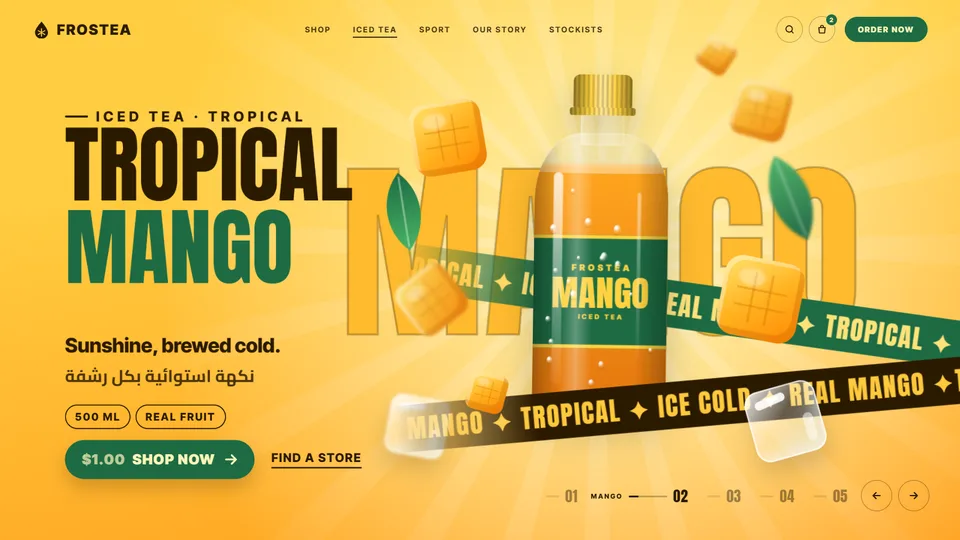
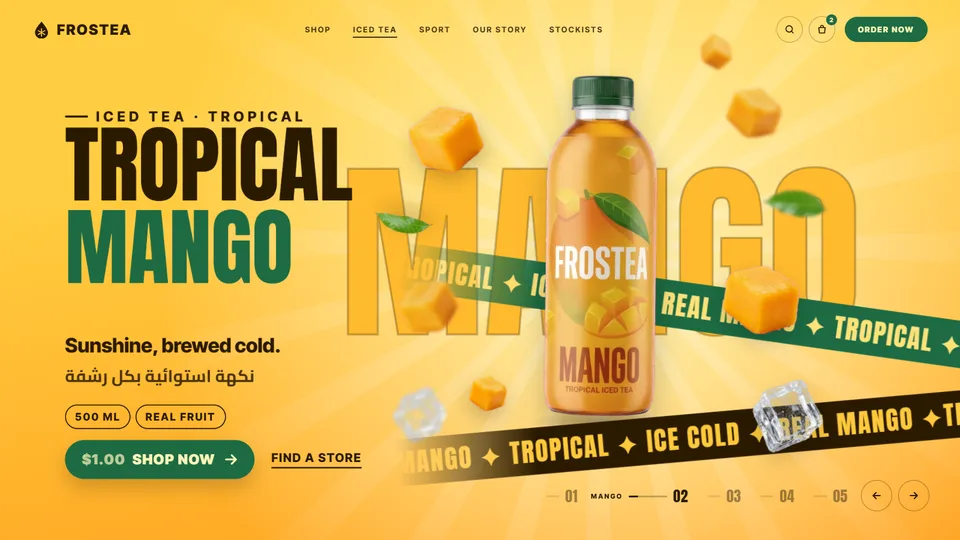
Frostea slider: Gemini-generated photo layers for bottles, fruit and ice

diff --git a/sliders/frostea/index.html b/sliders/frostea/index.html
@@ -110,7 +110,7 @@ body{font-family:"Inter Tight",system-ui,sans-serif;-webkit-font-smoothing:antia
 /* ribbons */
 .rib-pos{position:absolute;left:-170px;width:1420px;height:94px}
 .rib-pos.back{top:1300px;transform:rotate(7deg);z-index:8}
-.rib-pos.front{top:1446px;transform:rotate(-4deg);z-index:24}
+.rib-pos.front{top:1466px;transform:rotate(-4deg);z-index:24}
 .rib{width:100%;height:100%;overflow:hidden;display:flex;align-items:center;box-shadow:0 22px 40px rgba(0,0,0,.16);clip-path:inset(0 100% 0 0)}
 .back .rib{background:var(--ribbon);color:var(--ribbonInk)}
 .front .rib{background:var(--ribbon2);color:var(--ribbon2Ink)}
@@ -208,6 +208,14 @@ body{font-family:"Inter Tight",system-ui,sans-serif;-webkit-font-smoothing:antia
 .f-ice::before{left:14%;top:12%;width:44%;height:12%;border-radius:10px;background:rgba(255,255,255,.9);transform:rotate(-8deg)}
 .f-ice::after{right:12%;bottom:14%;width:14%;height:40%;border-radius:10px;background:rgba(255,255,255,.5)}
 
+/* photo layers (Gemini Studio cut-outs in img/) */
+.f-img{display:block;width:100%;height:100%;object-fit:contain;filter:drop-shadow(0 16px 18px rgba(0,0,0,.2))}
+.back .f-img{filter:none}
+.bottle.photo>*:not(.b-img){display:none}
+.b-img{position:absolute;left:50%;bottom:0;height:100%;width:auto;transform:translateX(-50%);display:none;pointer-events:none}
+.bottle.photo .b-img{display:block}
+.bottle.photo{filter:drop-shadow(0 34px 34px rgba(0,0,0,.22))}
+
 /* splash on landing */
 #splash{position:absolute;inset:0;z-index:25;pointer-events:none}
 .splash{position:absolute;width:0;height:0}
@@ -215,7 +223,7 @@ body{font-family:"Inter Tight",system-ui,sans-serif;-webkit-font-smoothing:antia
 .splash b{position:absolute;left:0;top:0;border-radius:50%;margin:-8px}
 
 /* ---------- info row ---------- */
-.info{position:absolute;left:70px;right:70px;top:1606px;display:flex;justify-content:space-between;align-items:flex-end;z-index:30;color:var(--ink)}
+.info{position:absolute;left:70px;right:70px;top:1642px;display:flex;justify-content:space-between;align-items:flex-end;z-index:30;color:var(--ink)}
 .info .left{width:600px}
 .tag>span{font-weight:800;font-size:44px;line-height:1.08;letter-spacing:-.01em}
 .ar{margin-top:8px}
@@ -226,7 +234,7 @@ body{font-family:"Inter Tight",system-ui,sans-serif;-webkit-font-smoothing:antia
 .cta{display:flex;align-items:center;gap:14px;white-space:nowrap;background:var(--ctaBg);color:var(--ctaInk);padding:22px 30px 22px 34px;border-radius:99px;font-weight:900;font-size:28px;letter-spacing:.06em;transform:scale(0);box-shadow:0 18px 36px rgba(0,0,0,.18)}
 .cta .price{opacity:.7}
 .cta svg{width:34px;height:34px}
-.foot{position:absolute;left:0;right:0;top:1826px;text-align:center;z-index:30;color:var(--ink);font-weight:700;font-size:22px;letter-spacing:.3em;opacity:.55;transition:color .6s}
+.foot{position:absolute;left:0;right:0;top:1846px;text-align:center;z-index:30;color:var(--ink);font-weight:700;font-size:22px;letter-spacing:.3em;opacity:.55;transition:color .6s}
 
 /* ---------- landscape composition (1920x1080 canvas) ---------- */
 .land .head{left:130px;top:215px;width:1000px}
@@ -236,7 +244,7 @@ body{font-family:"Inter Tight",system-ui,sans-serif;-webkit-font-smoothing:antia
 .land .word-pos{left:650px;top:240px;width:1100px;height:520px}
 .land .rib-pos{left:790px;width:1950px;-webkit-mask:linear-gradient(90deg,transparent,#000 280px);mask:linear-gradient(90deg,transparent,#000 280px)}
 .land .rib-pos.back{top:620px;transform:rotate(8deg)}
-.land .rib-pos.front{top:725px;transform:rotate(-5deg)}
+.land .rib-pos.front{top:792px;transform:rotate(-5deg)}
 .land .b-pos{left:1200px;top:165px;scale:.78}
 .land .sh-pos{left:1200px;top:842px;scale:.78}
 .land .info{left:130px;right:auto;top:668px;width:800px;display:block}
@@ -295,6 +303,7 @@ body.rec #stage{cursor:none}
               </div>
               <div class="gloss"></div><div class="gloss g2"></div>
               <div class="drops" id="drops"></div>
+              <img class="b-img" id="bImg" alt="">
             </div>
           </div>
         </div>
@@ -415,6 +424,20 @@ const SLIDES = [
         {t:'bolt',x:125,y:975,s:112,r:-15,z:'front'},{t:'drop',x:300,y:600,s:50,z:'back'},{t:'drop',x:800,y:550,s:40,z:'front'},
         {t:'drop',x:760,y:1400,s:50,z:'front'},{t:'ice',x:160,y:1470,s:160,r:12,z:'front'},{t:'ice',x:930,y:1480,s:130,r:-12,z:'back'}]},
 ];
+
+/* Photo layers. Keys are SLIDES[].word; each fx type cycles through its list in order.
+   Types left out (drop, bolt) keep their CSS art. */
+const IMG = {
+  PEACH:  { bottle: 'bottle-peach',  peach: ['ing-peach-1', 'ing-peach-2'], peachslice: ['ing-peach-3'], mint: ['ing-peach-4'] },
+  MANGO:  { bottle: 'bottle-mango',  cube: ['ing-mango-1', 'ing-mango-2', 'ing-mango-4', 'ing-mango-5'], leaf: ['ing-mango-3', 'ing-mango-6'] },
+  BERRY:  { bottle: 'bottle-berry',  rasp: ['ing-berry-1', 'ing-berry-3'], blue: ['ing-berry-2'], mint: ['ing-berry-4'] },
+  CITRUS: { bottle: 'bottle-citrus', slice: ['ing-citrus-1', 'ing-citrus-2'], mint: ['ing-citrus-3'], tea: ['ing-citrus-4'] },
+  SPORT:  { bottle: 'bottle-sport',  slice: ['ing-sport-1', 'ing-sport-2'], cherry: ['ing-sport-3', 'ing-sport-4'] },
+  ice: ['ice-1', 'ice-2', 'ice-3', 'ice-4'],
+};
+const src = name => `img/${name}.webp`;
+const preload = name => new Promise(res => { const im = new Image(); im.onload = im.onerror = () => (im.decode ? im.decode().catch(() => {}) : Promise.resolve()).then(res); im.src = src(name); });
+const slideImages = s => { const m = IMG[s.word]; return [m.bottle, ...Object.entries(m).filter(([k]) => k !== 'bottle').flatMap(([, v]) => v), ...IMG.ice]; };
 
 const DWELL = 4200;                         // hold time per slide once it has landed
 
@@ -629,6 +652,8 @@ function placeFx() {
 }
 function build(s, i) {
   $('#bottle').classList.toggle('sport', !!s.sport);
+  $('#bottle').classList.add('photo');
+  $('#bImg').src = src(IMG[s.word].bottle);
   $('#lbFlav').textContent = s.flav;
   $('#lbFlav').style.setProperty('--lf', s.flav.length > 5 ? '76px' : '92px');
   $('#lbSub').textContent = s.sub;
@@ -647,14 +672,17 @@ function build(s, i) {
   $$('.links a').forEach(a => a.classList.toggle('on', a.getAttribute('href') === (s.sport ? '#sport' : '#iced-tea')));
 
   $('#fxBack').innerHTML = $('#fxFront').innerHTML = '';
+  const used = {};
+  const pick = t => { const list = t === 'ice' ? IMG.ice : IMG[s.word][t]; if (!list) return null; used[t] = (used[t] || 0) + 1; return list[(used[t] - 1) % list.length]; };
   s.fx.forEach(f => {
     const pos = document.createElement('div');
     pos.className = 'fx-pos ' + f.z;
     pos.dataset.depth = f.z === 'front' ? rnd(1.3, 1.7).toFixed(2) : rnd(.35, .6).toFixed(2);
     const type = ['mint', 'tea'].includes(f.t) ? `leaf f-${f.t}` : f.t;
+    const img = pick(f.t);
     pos.innerHTML = `<div class="fx-anim" data-layer="${f.t}">
       <div class="fx-art" style="--bd:${rnd(2.8, 4.6).toFixed(2)}s;--bdl:-${rnd(0, 4).toFixed(2)}s;--bx:${rnd(-14, 14).toFixed(0)}px;--by:${rnd(-30, -12).toFixed(0)}px;--br:${rnd(-12, 12).toFixed(0)}deg">
-        <div class="f f-${type}" style="--r:${f.r || 0}deg;${f.v || ''}"></div></div></div>`;
+        ${img ? `<img class="f f-img" src="${src(img)}" alt="" style="--r:${f.r || 0}deg">` : `<div class="f f-${type}" style="--r:${f.r || 0}deg;${f.v || ''}"></div>`}</div></div>`;
     pos._fx = f;
     (f.z === 'front' ? $('#fxFront') : $('#fxBack')).appendChild(pos);
   });
@@ -771,8 +799,10 @@ async function go(i) {
   const s = SLIDES[i], first = idx < 0;
   setSegments(i);
   if (!first) { exitScene(); await sleep(230); }
+  const imgs = Promise.all(slideImages(s).map(preload));
   revealBg(s);
   if (!first) await sleep(430);
+  await Promise.race([imgs, new Promise(r => setTimeout(r, 1500))]);
   applyTheme(s);
   build(s, i);
   idx = i;
@@ -826,7 +856,10 @@ const start = Math.max(0, Math.min(SLIDES.length - 1, (parseInt((location.hash.m
 const fontsIn = document.fonts
   ? Promise.all(['400 100px Anton', '700 40px Cairo', '800 40px "Inter Tight"', '900 40px "Inter Tight"'].map(f => document.fonts.load(f, 'AZ مرحبا').catch(() => {})))
   : Promise.resolve();
-Promise.race([fontsIn, new Promise(r => setTimeout(r, 2500))]).then(() => go(start));
+Promise.race([fontsIn, new Promise(r => setTimeout(r, 2500))]).then(() => {
+  go(start);
+  setTimeout(() => SLIDES.forEach(sl => slideImages(sl).forEach(preload)), 2500);   // warm the rest
+});
 </script>
 </body>
 </html>
